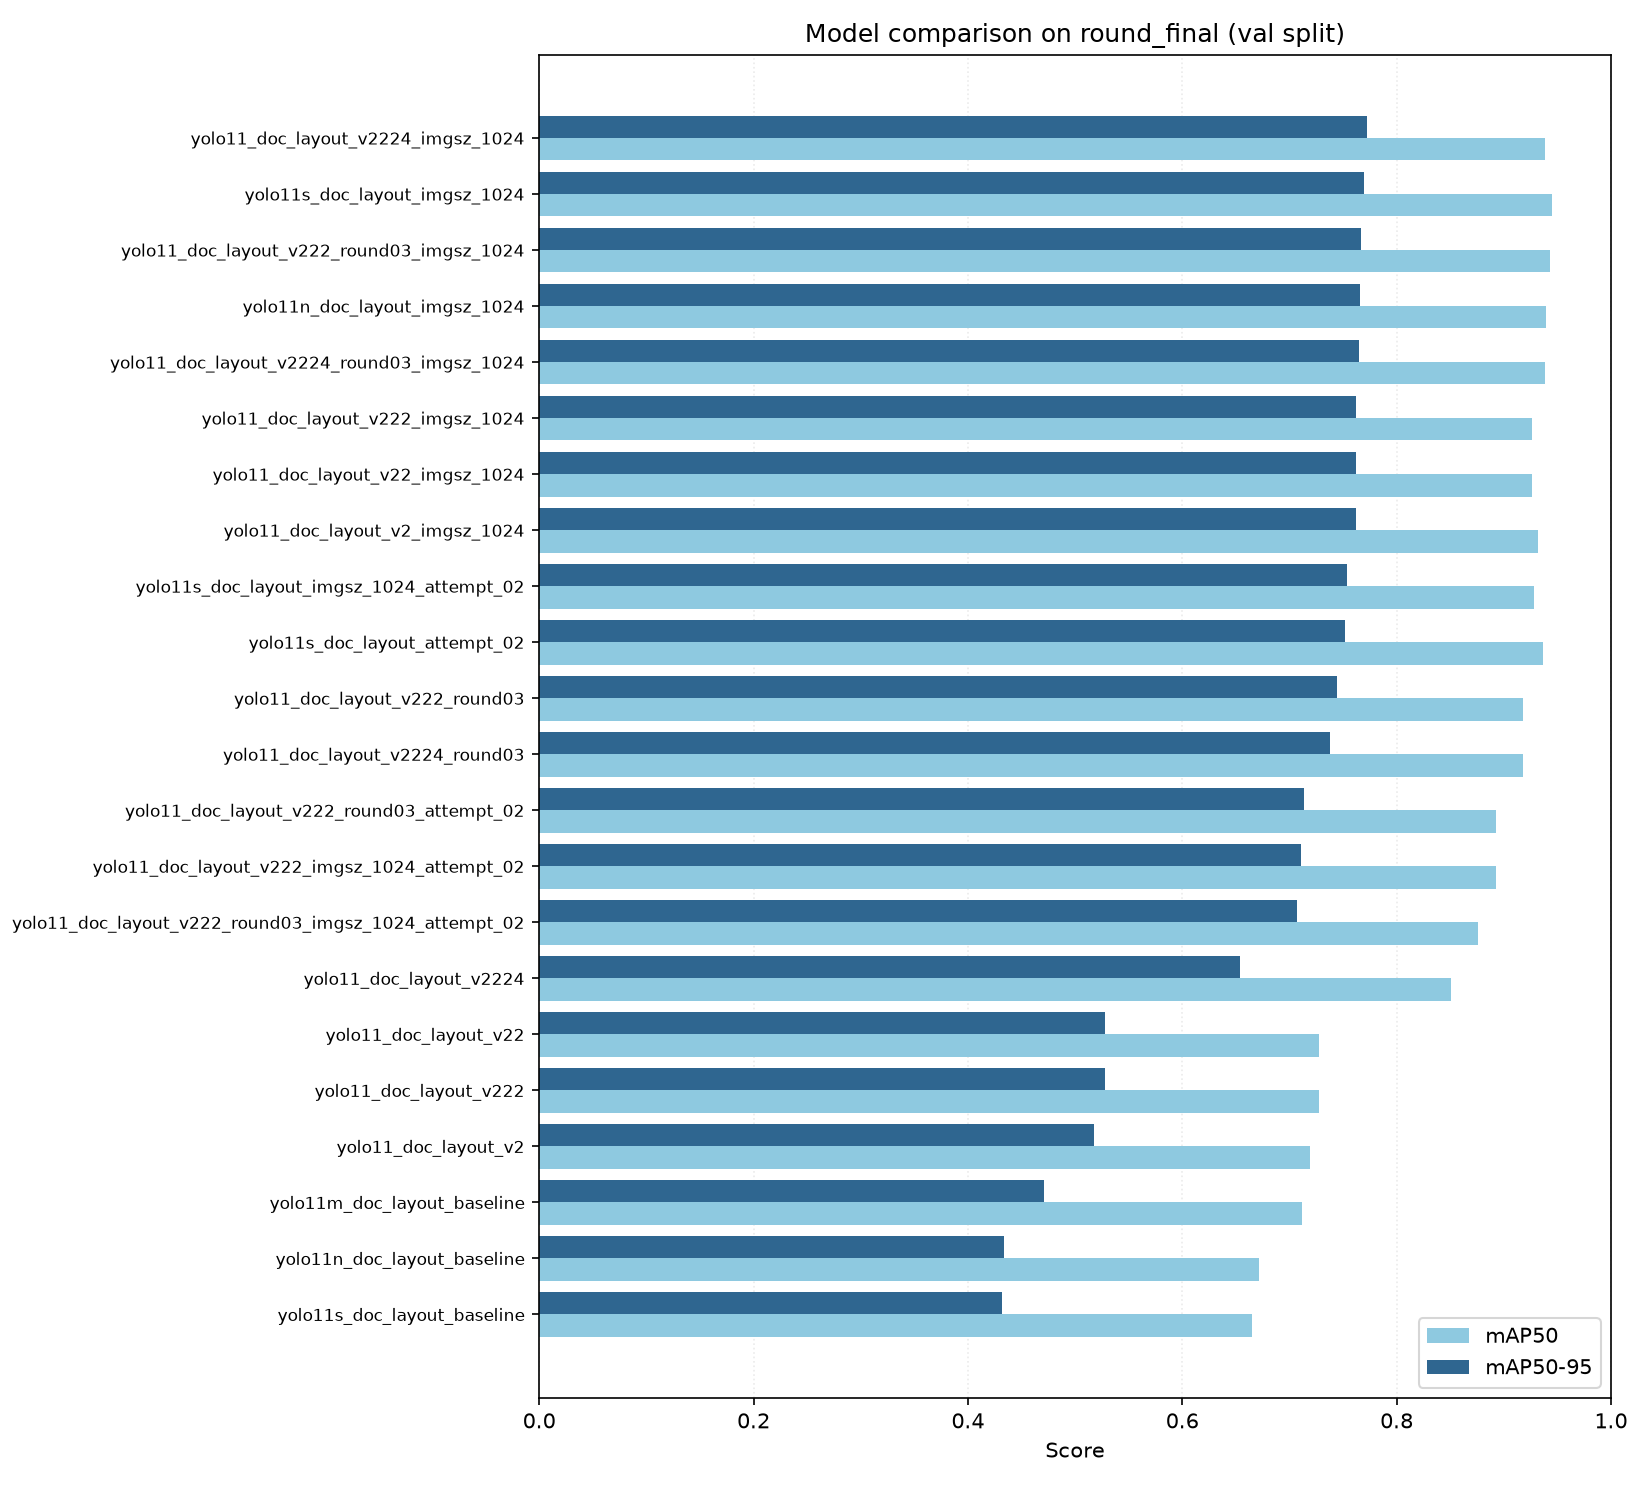
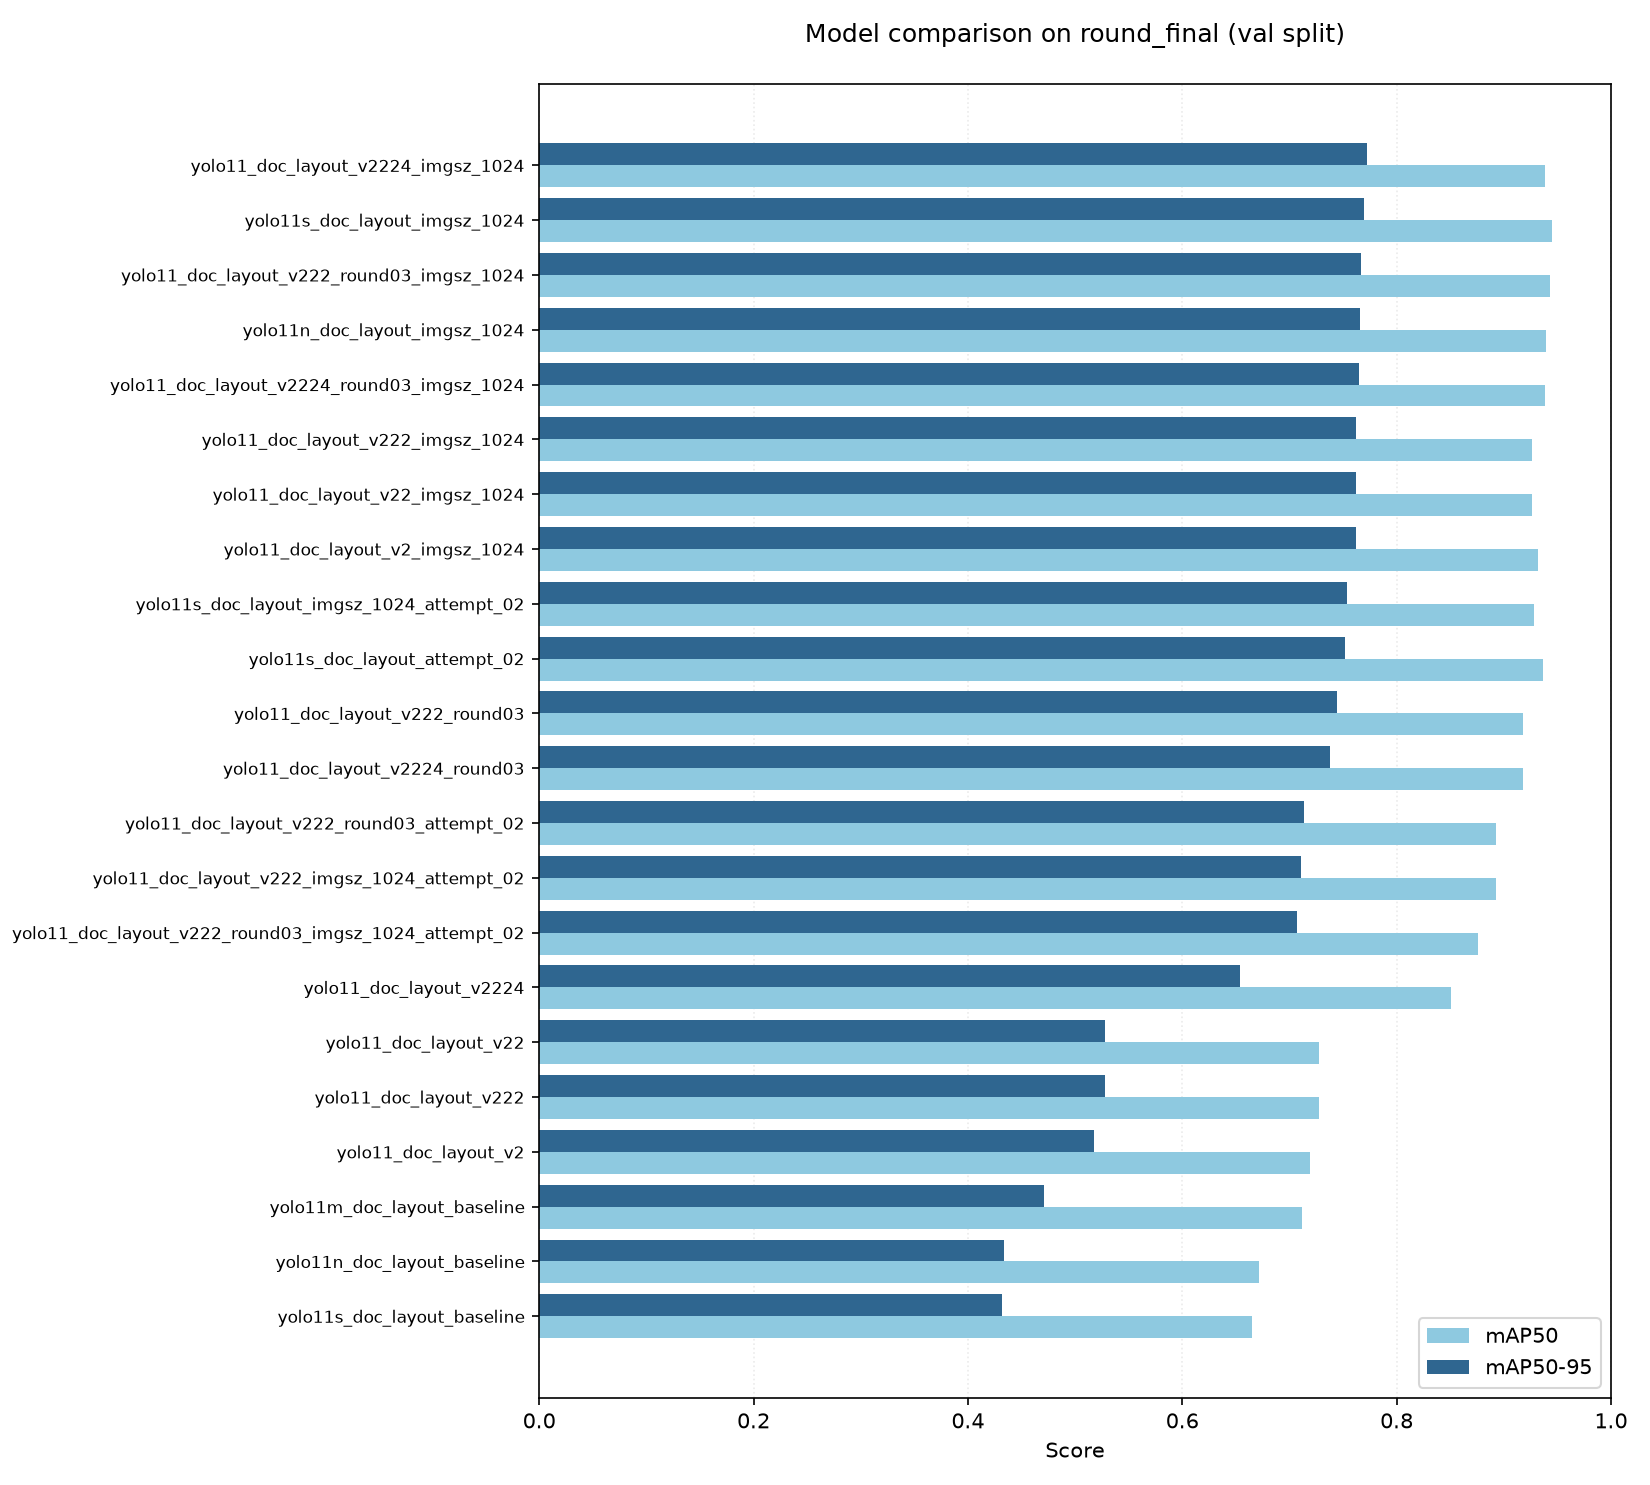
Give the evaluate.py chart title breathing room
evaluation_val.png's title sat almost flush against the plot frame: axes.set_title() defaults to a 6pt pad, and tight_layout() with no rect packed
everything against that default. Bumped to pad=20, which tight_layout()
already accounts for when sizing margins, so no rect/subplots_adjust needed.

Regenerated the PNG from the existing evaluation_val.csv rather than re-running
the 22-model GPU evaluation, since the title-only change needs no new scores.

diff --git a/doclayout_ft/evaluation/evaluate.py b/doclayout_ft/evaluation/evaluate.py
@@ -156,7 +156,10 @@ def write_chart(rows: list[dict[str, object]], path: Path, title: str) -> None:
     axes.set_xlim(0, 1)
     axes.grid(axis="x", alpha=0.25, linestyle=":")
     axes.set_axisbelow(True)
-    axes.set_title(title)
+    # pad=20 (default 6.0) leaves real breathing room between the title and
+    # the first bar. tight_layout() reads a title's bbox when sizing margins,
+    # so raising the pad alone is enough -- no rect/subplots_adjust needed.
+    axes.set_title(title, pad=20)
     axes.legend(loc="lower right")
     figure.tight_layout()
     figure.savefig(path, dpi=150)
